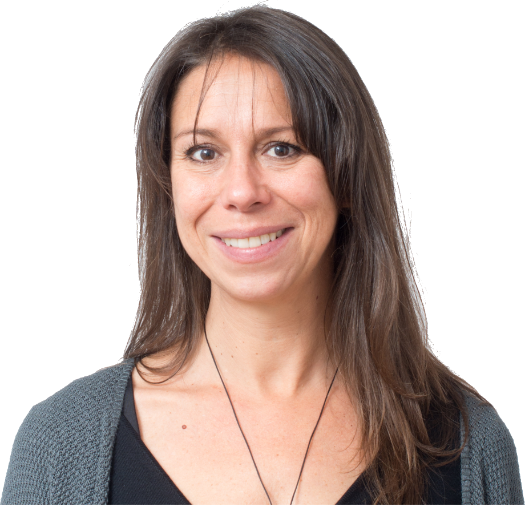
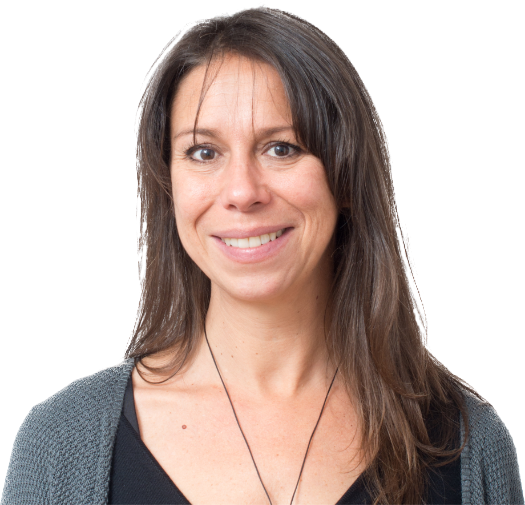
making staff photo component

diff --git a/src/lib/components/AboutUs.svelte b/src/lib/components/AboutUs.svelte
@@ -2,8 +2,9 @@
 	import { draw, fly, scale, slide } from 'svelte/transition';
 	import { sineInOut, quintIn, backOut } from 'svelte/easing';
 	import InView from '$lib/components/InView.svelte';
+	import InView2 from '$lib/InView2.svelte';
 
-	import photo1 from '$lib/assets/headshots/photo-1-v3.png';
+	import photo1 from '$lib/assets/headshots/photo-1.png';
 	import photo2 from '$lib/assets/headshots/photo-2.png';
 	import photo3 from '$lib/assets/headshots/photo-3.png';
 	import photo4 from '$lib/assets/headshots/photo-4.png';
@@ -19,101 +20,170 @@
 			/>
 		</div>
 	{/if}
+
+	<div class="flex flex-col gap-4 font-satoshi text-white ">
+		<div class="flex">
+			<div
+				class="text-3xl sm:text-5xl pt-10 pb-2 font-extrabold relative flex text-white psuedoUnderline font-satoshi"
+			>
+				Who we are
+			</div>
+		</div>
+		<div class="flex flex-col gap-4 sm:text-lg">
+			<div>
+				<span class="font-extrabold  italic">Our mission:</span> To be a trusted partner to businesses,
+				delivering customized solutions that help them achieve their goals and overcome challenges.
+			</div>
+			<div>
+				We are committed to providing exceptional value and quality, and we pride ourselves on our
+				ability to exceed expectations. Our focus on driving growth for our clients is at the core
+				of our mission, and we work tirelessly to ensure their success.
+			</div>
+		</div>
+	</div>
+
+	<div
+		class="flex flex-col sm:flex-row flex-wrap gap-0 sm:gap-12  justify-between font-satoshi pb-10"
+	>
+		<div class="flex gap-4 items-center sm:flex-col ">
+			<div
+				class="relative w-[10rem] h-[13rem] customTransition rounded-b-[100vw] overflow-clip hover:scale-105 flex  "
+			>
+				<div
+					class="backgroundPhotoTexture w-[10rem] h-[10rem] absolute bottom-0 rounded-t-full  "
+				/>
+				<!-- <img src={texturePhoto} alt="texture" class=" bg-cover absolute -z-10 bg-repeat" /> -->
+				<img
+					src={photo1}
+					alt="person headshot"
+					class="aboslute w-[10rem] h-[10rem] absolute bottom-0 -translate-y-1 scale-[130%] customTransition hover:-translate-y-3 hover:scale-[130%] hover:ease-in-out   "
+				/>
+			</div>
+			<div class="flex flex-col sm:items-center ">
+				<div class="flex text-xl text-white font-bold  ">Sarah Jones</div>
+				<div class="flex text-sm text-white   ">Managing Director</div>
+			</div>
+		</div>
+		<div class="flex gap-4 items-center sm:flex-col">
+			<div
+				class="relative w-[10rem] h-[13rem] customTransition rounded-b-[100vw] overflow-clip hover:scale-105 flex  "
+			>
+				<div
+					class="backgroundPhotoTexture w-[10rem] h-[10rem] absolute bottom-0 rounded-t-full  "
+				/>
+				<!-- <img src={texturePhoto} alt="texture" class=" bg-cover absolute -z-10 bg-repeat" /> -->
+				<img
+					src={photo2}
+					alt="person headshot"
+					class="aboslute w-[10rem] h-[10rem] absolute bottom-0 -translate-y-1 scale-[130%] customTransition hover:-translate-y-3 hover:scale-[130%] hover:ease-in-out   "
+				/>
+			</div>
+			<div class="flex flex-col  sm:items-center ">
+				<div class="flex text-xl text-white font-bold  ">Keisha Davis</div>
+				<div class="flex text-sm text-white   ">Senior Consultant</div>
+			</div>
+		</div>
+		<div class="flex gap-4 items-center sm:flex-col">
+			<div
+				class="relative w-[10rem] h-[13rem] customTransition rounded-b-[100vw] overflow-clip hover:scale-105 flex  "
+			>
+				<div
+					class="backgroundPhotoTexture w-[10rem] h-[10rem] absolute bottom-0 rounded-t-full  "
+				/>
+				<!-- <img src={texturePhoto} alt="texture" class=" bg-cover absolute -z-10 bg-repeat" /> -->
+				<img
+					src={photo3}
+					alt="person headshot"
+					class="aboslute w-[10rem] h-[10rem] absolute bottom-0 -translate-y-1 scale-[130%] customTransition hover:-translate-y-3 hover:scale-[130%] hover:ease-in-out   "
+				/>
+			</div>
+			<div class="flex flex-col sm:items-center">
+				<div class="flex text-xl text-white font-bold  ">Ana Torres</div>
+				<div class="flex text-sm text-white   ">Consultant</div>
+			</div>
+		</div>
+		<div class="flex gap-4 items-center sm:flex-col">
+			<div
+				class="relative w-[10rem] h-[13rem] customTransition rounded-b-[100vw] overflow-clip hover:scale-105 flex  "
+			>
+				<div
+					class="backgroundPhotoTexture w-[10rem] h-[10rem] absolute bottom-0 rounded-t-full  "
+				/>
+				<!-- <img src={texturePhoto} alt="texture" class=" bg-cover absolute -z-10 bg-repeat" /> -->
+				<img
+					src={photo4}
+					alt="person headshot"
+					class="aboslute w-[10rem] h-[10rem] absolute bottom-0 -translate-y-1 scale-[130%] customTransition hover:-translate-y-3 hover:scale-[130%] hover:ease-in-out   "
+				/>
+			</div>
+			<div class="flex flex-col sm:items-center ">
+				<div class="flex text-xl text-white font-bold  ">Matt Walsh</div>
+				<div class="flex text-sm text-white   ">Consultant</div>
+			</div>
+		</div>
+	</div>
 </InView>
 
-<div class="flex flex-col gap-4 font-satoshi text-white ">
-	<div class="flex">
-		<div
-			class="text-3xl sm:text-5xl pt-10 pb-2 font-extrabold relative flex text-white psuedoUnderline font-satoshi"
-		>
-			Who we are
+<InView2 let:isVisible2>
+	{#if isVisible2}
+		<div class="absolute w-[70vh] h-[70vh] bottom-0 left-0 overflow-hidden">
+			<svg
+				class="absolute bottom-0 left-0 -translate-x-1 translate-y-1 "
+				width="184"
+				height="200"
+				viewBox="0 0 184 200"
+				fill="none"
+				xmlns="http://www.w3.org/2000/svg"
+			>
+				<line
+					in:draw={{ duration: 200, delay: 400, easing: quintIn }}
+					x1="-24.2929"
+					y1="1.29289"
+					x2="182.707"
+					y2="208.293"
+					stroke="white"
+					stroke-width="2"
+				/>
+			</svg>
+			<svg
+				class="absolute bottom-0 left-0 -translate-x-5 translate-y-5"
+				width="184"
+				height="200"
+				viewBox="0 0 184 200"
+				fill="none"
+				xmlns="http://www.w3.org/2000/svg"
+			>
+				<line
+					in:draw={{ duration: 300, delay: 475, easing: quintIn }}
+					x1="-24.2929"
+					y1="1.29289"
+					x2="182.707"
+					y2="208.293"
+					stroke="white"
+					stroke-width="2"
+				/>
+			</svg>
+			<svg
+				class="absolute bottom-0 left-0 -translate-x-9 translate-y-9 "
+				width="184"
+				height="200"
+				viewBox="0 0 184 200"
+				fill="none"
+				xmlns="http://www.w3.org/2000/svg"
+			>
+				<line
+					in:draw={{ duration: 300, delay: 550, easing: quintIn }}
+					x1="-24.2929"
+					y1="1.29289"
+					x2="182.707"
+					y2="208.293"
+					stroke="white"
+					stroke-width="2"
+				/>
+			</svg>
 		</div>
-	</div>
-	<div class="flex flex-col gap-4 sm:text-lg">
-		<div>
-			<span class="font-extrabold  italic">Our mission:</span> To be a trusted partner to businesses,
-			delivering customized solutions that help them achieve their goals and overcome challenges.
-		</div>
-		<div>
-			We are committed to providing exceptional value and quality, and we pride ourselves on our
-			ability to exceed expectations. Our focus on driving growth for our clients is at the core of
-			our mission, and we work tirelessly to ensure their success.
-		</div>
-	</div>
-</div>
-
-<div
-	class="flex flex-col sm:flex-row flex-wrap gap-0 sm:gap-12  justify-between font-satoshi pb-10"
->
-	<div class="flex gap-4 items-center sm:flex-col ">
-		<div
-			class="relative w-[10rem] h-[13rem] customTransition rounded-b-[100vw] overflow-clip hover:scale-105 flex  "
-		>
-			<div class="backgroundPhotoTexture w-[10rem] h-[10rem] absolute bottom-0 rounded-t-full  " />
-			<!-- <img src={texturePhoto} alt="texture" class=" bg-cover absolute -z-10 bg-repeat" /> -->
-			<img
-				src={photo1}
-				alt="person headshot"
-				class="aboslute w-[10rem] h-[10rem] absolute bottom-0 -translate-y-1 scale-[130%] customTransition hover:-translate-y-3 hover:scale-[130%] hover:ease-in-out   "
-			/>
-		</div>
-		<div class="flex flex-col sm:items-center ">
-			<div class="flex text-xl text-white font-bold  ">Sarah Jones</div>
-			<div class="flex text-sm text-white   ">Managing Director</div>
-		</div>
-	</div>
-	<div class="flex gap-4 items-center sm:flex-col">
-		<div
-			class="relative w-[10rem] h-[13rem] customTransition rounded-b-[100vw] overflow-clip hover:scale-105 flex  "
-		>
-			<div class="backgroundPhotoTexture w-[10rem] h-[10rem] absolute bottom-0 rounded-t-full  " />
-			<!-- <img src={texturePhoto} alt="texture" class=" bg-cover absolute -z-10 bg-repeat" /> -->
-			<img
-				src={photo2}
-				alt="person headshot"
-				class="aboslute w-[10rem] h-[10rem] absolute bottom-0 -translate-y-1 scale-[130%] customTransition hover:-translate-y-3 hover:scale-[130%] hover:ease-in-out   "
-			/>
-		</div>
-		<div class="flex flex-col  sm:items-center ">
-			<div class="flex text-xl text-white font-bold  ">Keisha Davis</div>
-			<div class="flex text-sm text-white   ">Senior Consultant</div>
-		</div>
-	</div>
-	<div class="flex gap-4 items-center sm:flex-col">
-		<div
-			class="relative w-[10rem] h-[13rem] customTransition rounded-b-[100vw] overflow-clip hover:scale-105 flex  "
-		>
-			<div class="backgroundPhotoTexture w-[10rem] h-[10rem] absolute bottom-0 rounded-t-full  " />
-			<!-- <img src={texturePhoto} alt="texture" class=" bg-cover absolute -z-10 bg-repeat" /> -->
-			<img
-				src={photo3}
-				alt="person headshot"
-				class="aboslute w-[10rem] h-[10rem] absolute bottom-0 -translate-y-1 scale-[130%] customTransition hover:-translate-y-3 hover:scale-[130%] hover:ease-in-out   "
-			/>
-		</div>
-		<div class="flex flex-col sm:items-center">
-			<div class="flex text-xl text-white font-bold  ">Ana Torres</div>
-			<div class="flex text-sm text-white   ">Consultant</div>
-		</div>
-	</div>
-	<div class="flex gap-4 items-center sm:flex-col">
-		<div
-			class="relative w-[10rem] h-[13rem] customTransition rounded-b-[100vw] overflow-clip hover:scale-105 flex  "
-		>
-			<div class="backgroundPhotoTexture w-[10rem] h-[10rem] absolute bottom-0 rounded-t-full  " />
-			<!-- <img src={texturePhoto} alt="texture" class=" bg-cover absolute -z-10 bg-repeat" /> -->
-			<img
-				src={photo4}
-				alt="person headshot"
-				class="aboslute w-[10rem] h-[10rem] absolute bottom-0 -translate-y-1 scale-[130%] customTransition hover:-translate-y-3 hover:scale-[130%] hover:ease-in-out   "
-			/>
-		</div>
-		<div class="flex flex-col sm:items-center ">
-			<div class="flex text-xl text-white font-bold  ">Matt Walsh</div>
-			<div class="flex text-sm text-white   ">Consultant</div>
-		</div>
-	</div>
-</div>
+	{/if}
+</InView2>
 
 <!-- ------------------------------------------------------------------------------------ -->
 <style>

diff --git a/src/lib/components/StaffPhotos.svelte b/src/lib/components/StaffPhotos.svelte
@@ -1,0 +1,45 @@
+<script>
+	import photo1 from '$lib/assets/headshots/photo-1.png';
+	import photo2 from '$lib/assets/headshots/photo-2.png';
+	import photo3 from '$lib/assets/headshots/photo-3.png';
+	import photo4 from '$lib/assets/headshots/photo-4.png';
+
+	let staffData = [
+		{
+			name: 'text',
+			role: 'text'
+		},
+		{
+			name: 'text',
+			role: 'text'
+		},
+		{
+			name: 'text',
+			role: 'text'
+		},
+		{
+			name: 'text',
+			role: 'text'
+		}
+	];
+</script>
+
+{#each staffData as i}
+	<div class="flex gap-4 items-center sm:flex-col ">
+		<div
+			class="relative w-[10rem] h-[13rem] customTransition rounded-b-[100vw] overflow-clip hover:scale-105 flex  "
+		>
+			<div class="backgroundPhotoTexture w-[10rem] h-[10rem] absolute bottom-0 rounded-t-full  " />
+			<!-- <img src={texturePhoto} alt="texture" class=" bg-cover absolute -z-10 bg-repeat" /> -->
+			<img
+				src={photo[i]}
+				alt="person headshot"
+				class="aboslute w-[10rem] h-[10rem] absolute bottom-0 -translate-y-1 scale-[130%] customTransition hover:-translate-y-3 hover:scale-[130%] hover:ease-in-out   "
+			/>
+		</div>
+		<div class="flex flex-col sm:items-center ">
+			<div class="flex text-xl text-white font-bold  ">Sarah Jones</div>
+			<div class="flex text-sm text-white   ">Managing Director</div>
+		</div>
+	</div>
+{/each}

diff --git a/src/lib/components/LandingPage.svelte b/src/lib/components/LandingPage.svelte
@@ -81,7 +81,7 @@
 {#if mountAnimations}
 	<div class=" flex flex-col font-satoshi gap-5 mt-5 ">
 		<div class="sm:grid sm:grid-cols-2 flex flex-col text-white gap-5 items-top ">
-			<div class="textSmallClamp flex flex-col  gap-7 ">
+			<div class="textSmallClamp flex flex-col  gap-3 ">
 				<div
 					in:fly={{ duration: 300, delay: 0, easing: sineInOut, y: 100 }}
 					class="textClamp font-satoshi font-extrabold italic text-white "
@@ -94,7 +94,7 @@
 				</div>
 				<div in:fly={{ duration: 300, delay: 150, easing: sineInOut, y: 100 }} class="flex">
 					<div
-						class="bg-secondaryDark  flex  gap-1 justify-center font-bold textSmallClamp px-4 py-3 rounded-lg items-center"
+						class="bg-secondaryDark mt-2 flex  gap-1 justify-center font-bold textSmallClamp px-4 py-3 rounded-lg items-center"
 					>
 						<div class="flex">Learn More</div>
 

diff --git a/src/lib/components/OneFAQ.svelte b/src/lib/components/OneFAQ.svelte
@@ -14,7 +14,7 @@
 	});
 </script>
 
-<div class="items-center font-satoshi text-secondaryDark mt-3">
+<div class="items-center font-satoshi text-secondaryDarkest mt-3">
 	<button class=" w-full flex gap-2     text-left" on:click={toggleFAQ1}>
 		<div class="">
 			{#if !showFAQ1}
@@ -24,7 +24,7 @@
 			{/if}
 		</div>
 
-		<div class="flex flex-col gap-2 text-secondaryDark">
+		<div class="flex flex-col gap-2 text-secondaryDarkest">
 			<div class="text-Q font-bold ">What is your work process like?</div>
 
 			{#if showFAQ1}

diff --git a/src/lib/components/InView2.svelte b/src/lib/components/InView2.svelte
@@ -1,0 +1,23 @@
+<script lang="ts">
+	import { onMount } from 'svelte';
+
+	let isVisible2 = false;
+	let element2;
+
+	const handleIntersect = (e) => {
+		isVisible2 = e[0].isIntersecting;
+	};
+
+	onMount(() => {
+		const root = null;
+		const rootMargin = `0px 0px 0px 0px`;
+		const options = { root, rootMargin };
+
+		const observer = new IntersectionObserver(handleIntersect, options);
+		observer.observe(element2);
+	});
+</script>
+
+<div bind:this={element2}>
+	<slot {isVisible2} />
+</div>
